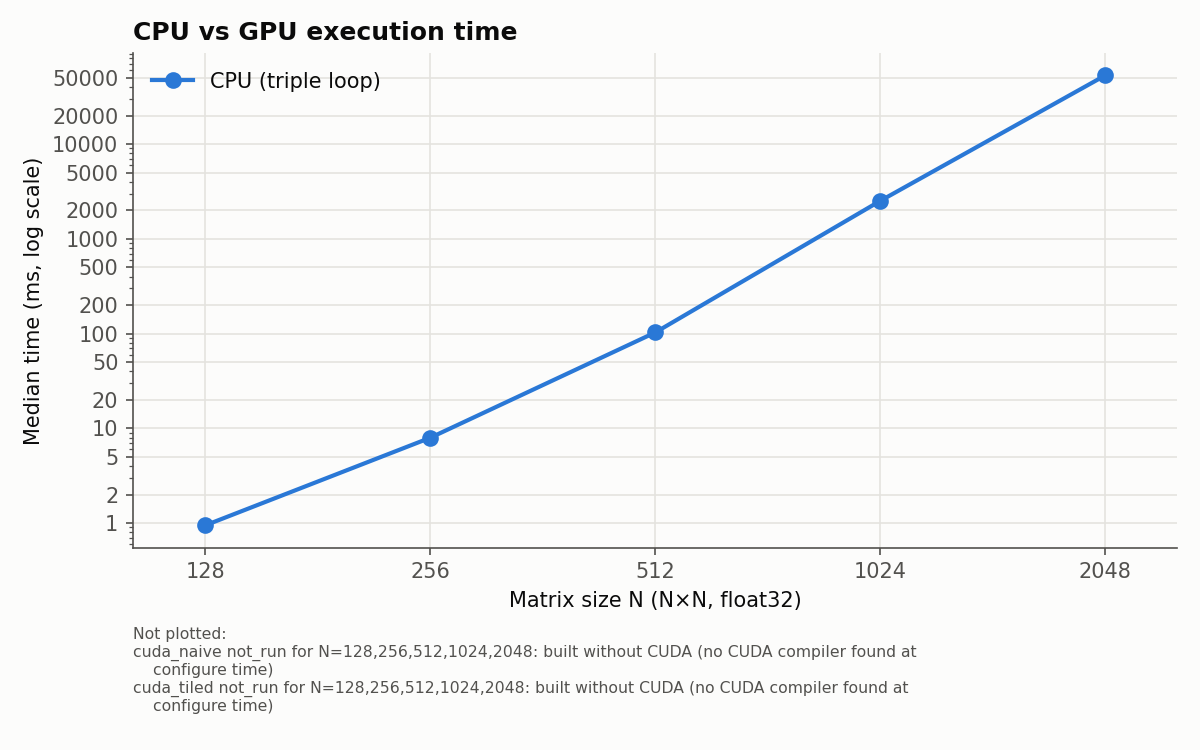
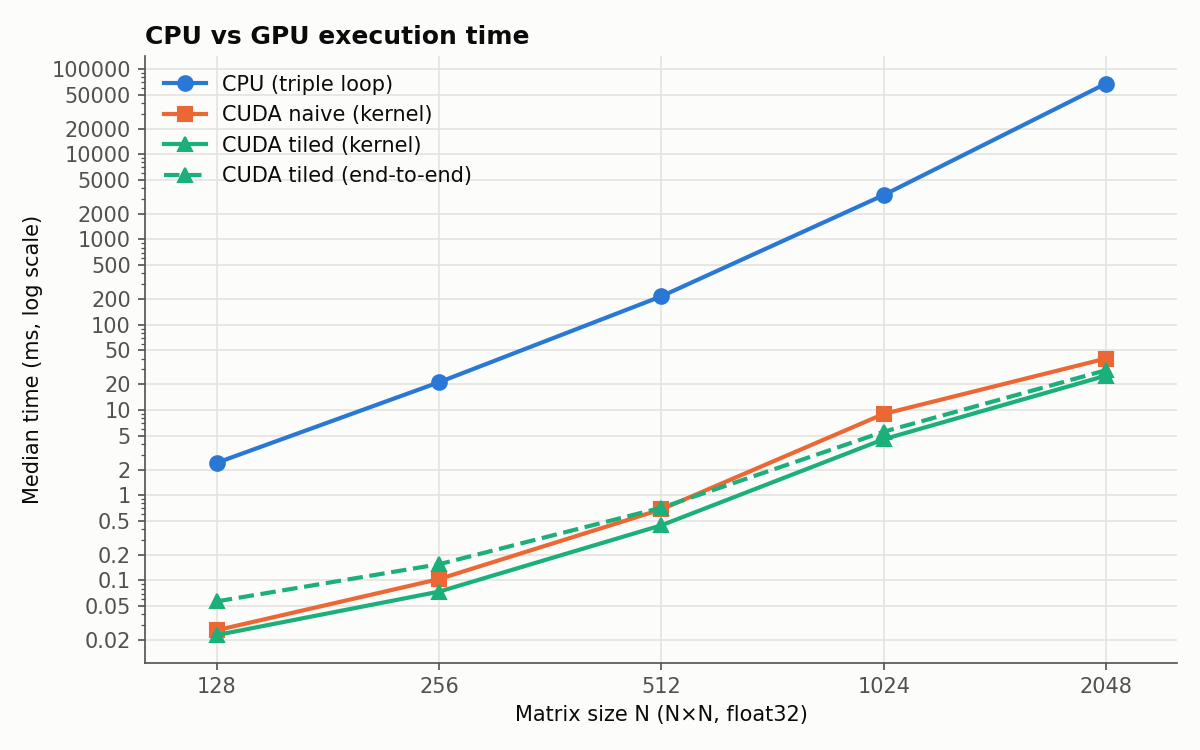
Add measured GPU benchmark results

diff --git a/plots/summary.md b/plots/summary.md
@@ -1,21 +1,21 @@
 # Benchmark summary
 
-run_id `20261016T122113Z`, device `none`, compiler `gcc 15.2.0`. Times are medians in ms.
+run_id `20261017T195024Z`, device `Tesla T4`, compiler `gcc 13.3.0`. Times are medians in ms.
 
 | impl | N | status | correct | time_ms_median | h2d_ms_median | d2h_ms_median | e2e_ms_median | gflops | speedup_vs_cpu | speedup_e2e_vs_cpu | max_abs_err |
 |---|---|---|---|---|---|---|---|---|---|---|---|
-| cpu | 128 | ok | True | 0.948499 |  |  |  | 4.42204 | 1.0 |  | 6.23204e-06 |
-| cuda_naive | 128 | not_run |  |  |  |  |  |  |  |  |  |
-| cuda_tiled | 128 | not_run |  |  |  |  |  |  |  |  |  |
-| cpu | 256 | ok | True | 7.96052 |  |  |  | 4.2151 | 1.0 |  | 1.31609e-05 |
-| cuda_naive | 256 | not_run |  |  |  |  |  |  |  |  |  |
-| cuda_tiled | 256 | not_run |  |  |  |  |  |  |  |  |  |
-| cpu | 512 | ok | True | 102.738 |  |  |  | 2.61282 | 1.0 |  | 3.22277e-05 |
-| cuda_naive | 512 | not_run |  |  |  |  |  |  |  |  |  |
-| cuda_tiled | 512 | not_run |  |  |  |  |  |  |  |  |  |
-| cpu | 1024 | ok | True | 2511.44 |  |  |  | 0.855081 | 1.0 |  | 5.88516e-05 |
-| cuda_naive | 1024 | not_run |  |  |  |  |  |  |  |  |  |
-| cuda_tiled | 1024 | not_run |  |  |  |  |  |  |  |  |  |
-| cpu | 2048 | ok | True | 52923.2 |  |  |  | 0.324619 | 1.0 |  | 0.00011324 |
-| cuda_naive | 2048 | not_run |  |  |  |  |  |  |  |  |  |
-| cuda_tiled | 2048 | not_run |  |  |  |  |  |  |  |  |  |
+| cpu | 128 | ok | True | 2.4028 |  |  |  | 1.74559 | 1.0 |  | 6.23204e-06 |
+| cuda_naive | 128 | ok | True | 0.026048 | 0.024704 | 0.013184 | 0.064496 | 161.022 | 92.245 | 37.255 | 3.33786e-06 |
+| cuda_tiled | 128 | ok | True | 0.022896 | 0.024416 | 0.009072 | 0.056816 | 183.189 | 104.944 | 42.2909 | 3.33786e-06 |
+| cpu | 256 | ok | True | 21.1569 |  |  |  | 1.58598 | 1.0 |  | 1.31609e-05 |
+| cuda_naive | 256 | ok | True | 0.103824 | 0.0544 | 0.025072 | 0.184272 | 323.186 | 203.777 | 114.814 | 5.72205e-06 |
+| cuda_tiled | 256 | ok | True | 0.073952 | 0.05048 | 0.030288 | 0.15496 | 453.733 | 286.09 | 136.532 | 5.72205e-06 |
+| cpu | 512 | ok | True | 215.377 |  |  |  | 1.24635 | 1.0 |  | 3.22277e-05 |
+| cuda_naive | 512 | ok | True | 0.681968 | 0.179088 | 0.0868 | 0.947568 | 393.619 | 315.817 | 227.295 | 1.14441e-05 |
+| cuda_tiled | 512 | ok | True | 0.443392 | 0.183024 | 0.085904 | 0.71256 | 605.413 | 485.749 | 302.259 | 1.14441e-05 |
+| cpu | 1024 | ok | True | 3315.66 |  |  |  | 0.647679 | 1.0 |  | 5.88516e-05 |
+| cuda_naive | 1024 | ok | True | 8.97229 | 0.6936 | 0.327648 | 9.9921 | 239.346 | 369.545 | 331.828 | 1.71661e-05 |
+| cuda_tiled | 1024 | ok | True | 4.5324 | 0.689824 | 0.327712 | 5.54971 | 473.807 | 731.547 | 597.447 | 1.71661e-05 |
+| cpu | 2048 | ok | True | 67327.3 |  |  |  | 0.25517 | 1.0 |  | 0.00011324 |
+| cuda_naive | 2048 | ok | True | 40.066 | 2.73426 | 1.28618 | 44.0889 | 428.789 | 1680.41 | 1527.08 | 3.43323e-05 |
+| cuda_tiled | 2048 | ok | True | 25.2247 | 2.73806 | 1.28714 | 29.2441 | 681.074 | 2669.1 | 2302.25 | 3.43323e-05 |
